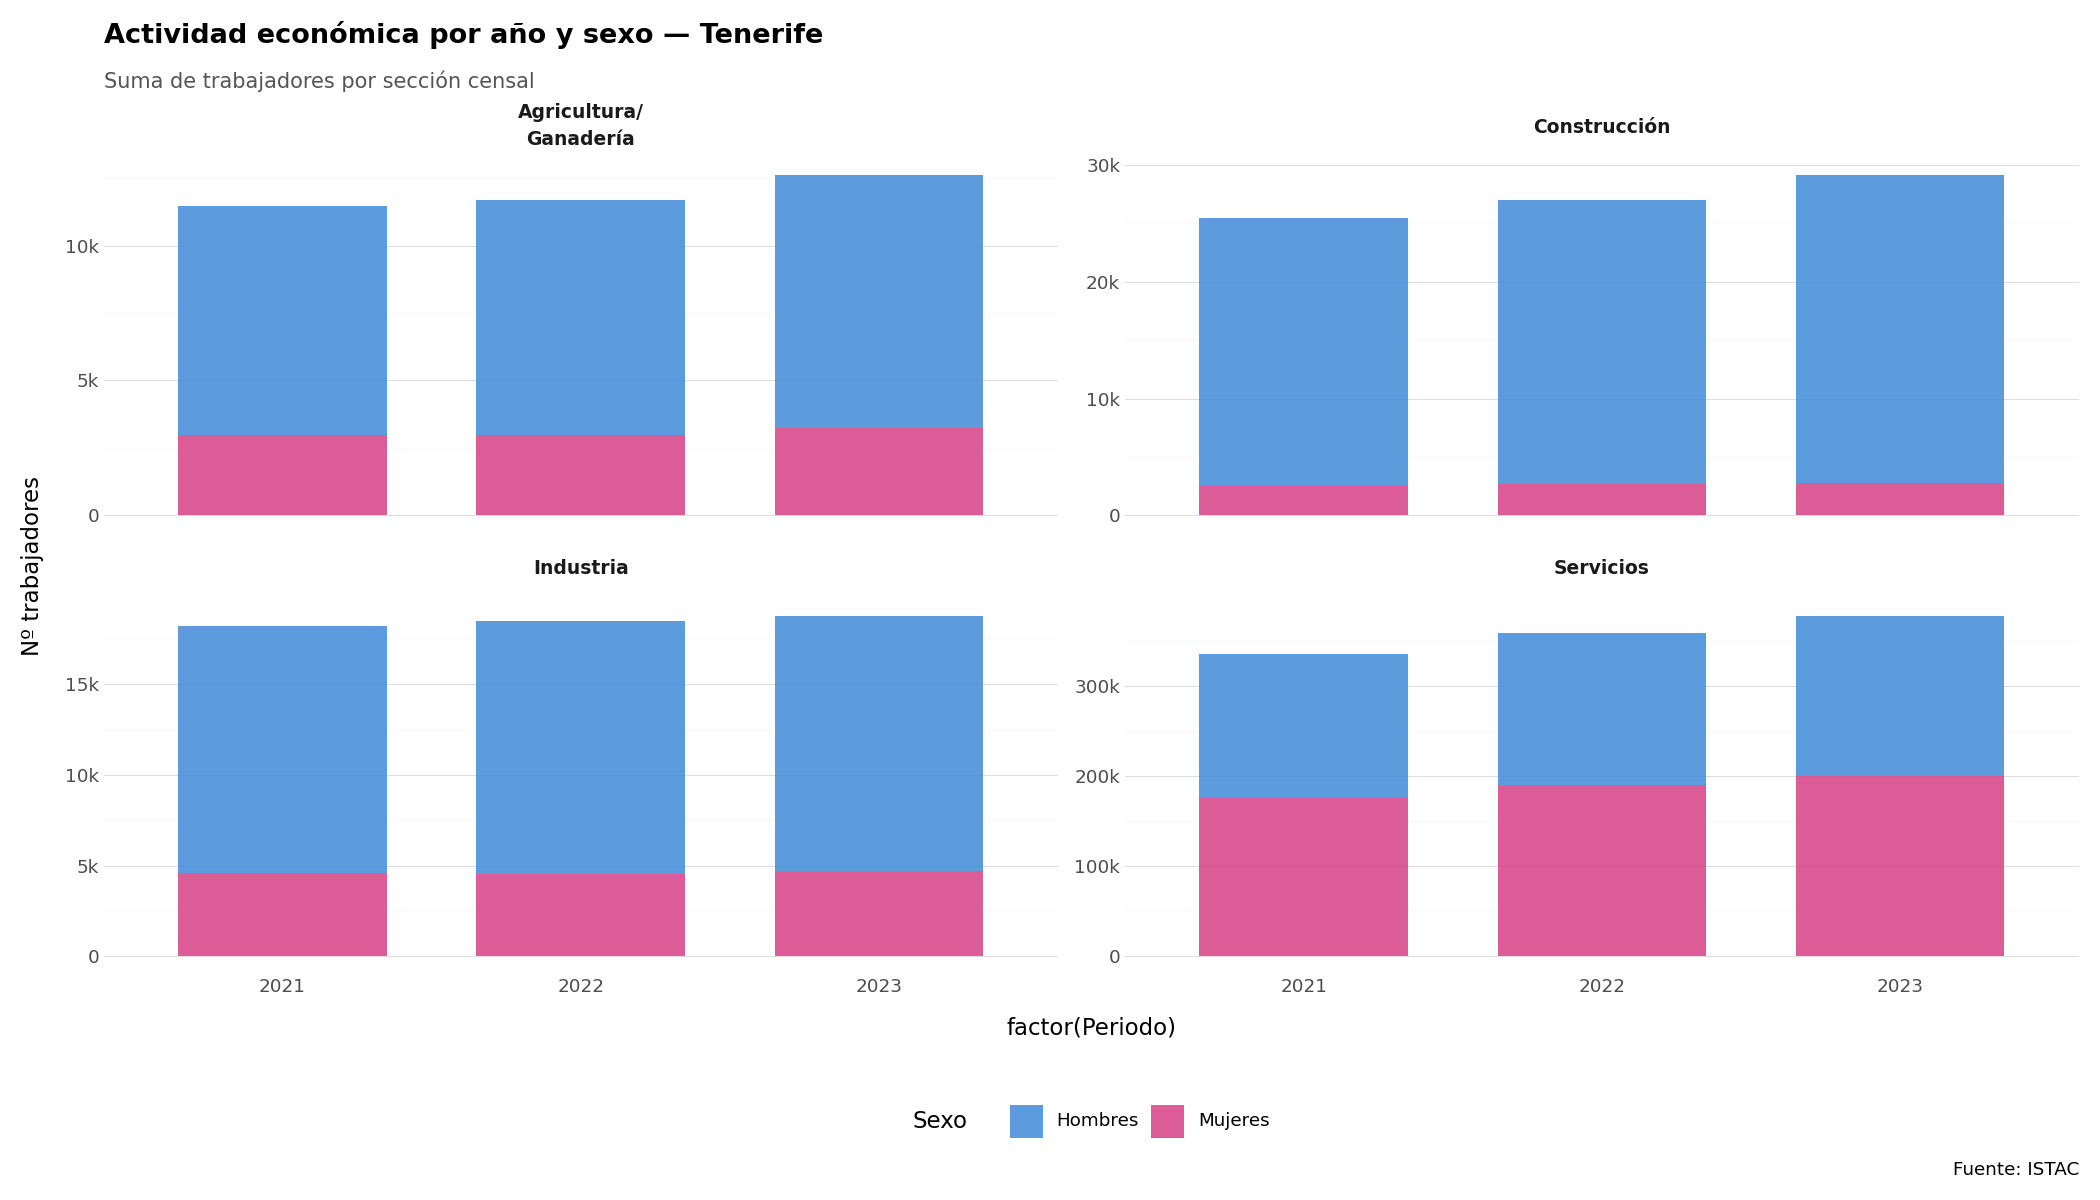
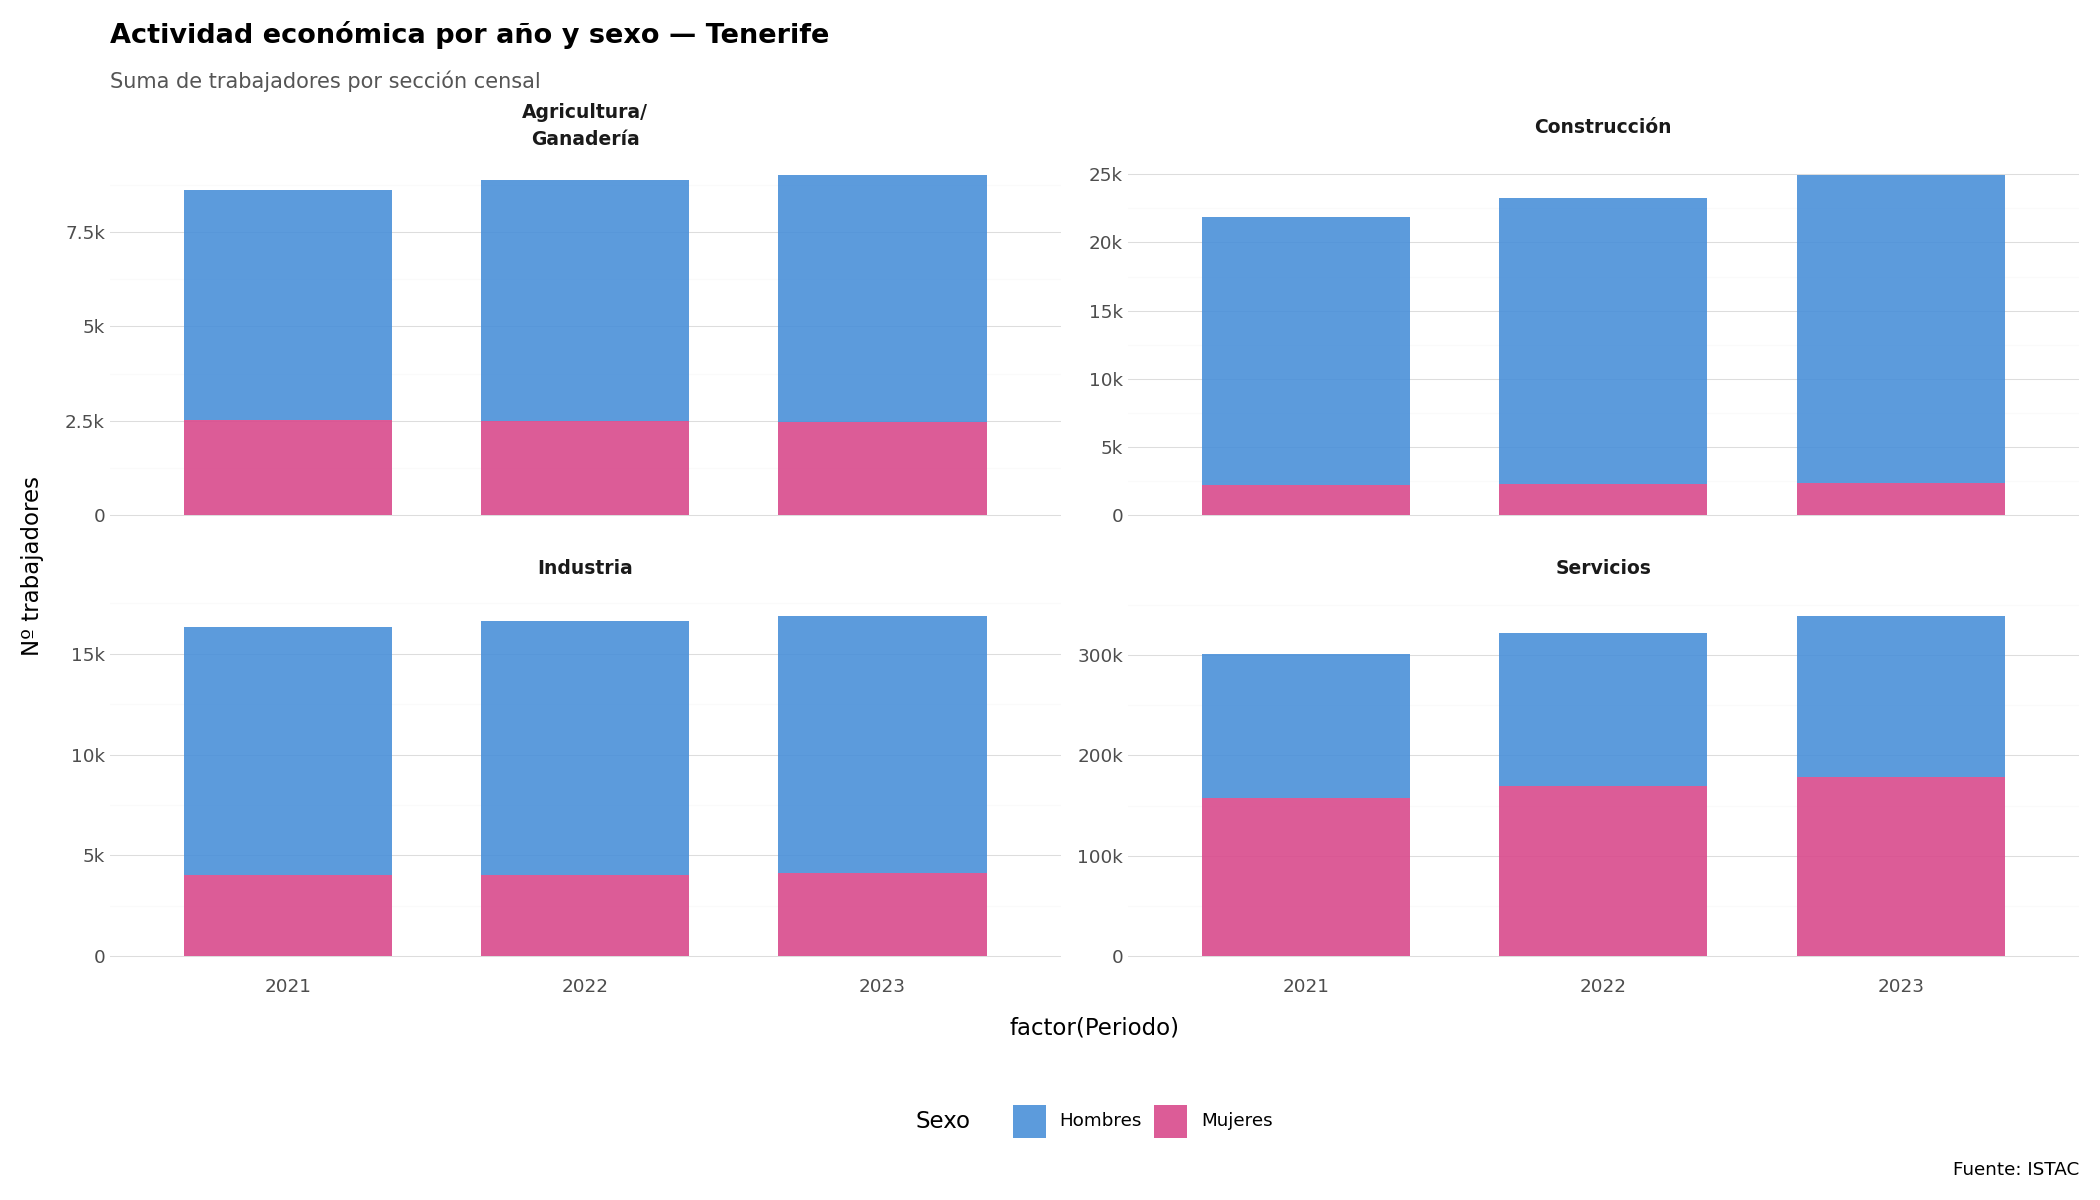
mejoras plots

diff --git a/assets_proyecto5/plots_assets.py b/assets_proyecto5/plots_assets.py
@@ -159,9 +159,16 @@ def plot_distribucion_lineas(context: AssetExecutionContext) -> None:
 
 @asset(deps=[preprocesar_datos_p5], group_name="visualizaciones")
 def plot_actividad_barras(context: AssetExecutionContext) -> None:
+    from checks_p5 import inferir_isla
     cfg = get_plot_config()["actividad_barras"]
+    ISLA = cfg.get("isla", "Todas")
+    
     df = pd.read_csv(get_processed_path(cfg["dataset"])).dropna(subset=["num_casos"])
     df = df[df["Sexo"].isin(["Hombres", "Mujeres"]) & (df["Actividad económica"] != "No consta")]
+    
+    if ISLA != "Todas":
+        df["isla"] = df["municipio"].apply(inferir_isla)
+        df = df[df["isla"] == ISLA]
 
     df["actividad"] = df["Actividad económica"].replace(
         {"Agricultura, ganadería y pesca": "Agricultura/\nGanadería"}
@@ -176,7 +183,7 @@ def plot_actividad_barras(context: AssetExecutionContext) -> None:
         + scale_fill_manual(values={"Hombres": "#4A90D9", "Mujeres": "#D94A8C"})
         + scale_y_continuous(labels=fmt_k)
         + labs(
-            title="Actividad económica por año y sexo — Tenerife",
+            title=f"Actividad económica por año y sexo — {ISLA if ISLA != 'Todas' else 'Toda la provincia'}",
             subtitle="Suma de trabajadores por sección censal",
             x=None, y="Nº trabajadores", fill="Sexo",
             caption="Fuente: ISTAC",
@@ -944,6 +951,12 @@ def plot_brecha_temporal_edad(context: AssetExecutionContext) -> None:
     for col in df.select_dtypes(include="object").columns:
         df[col] = df[col].str.strip()
     df = df[df["sexo"].isin(["Hombres", "Mujeres"])]
+    
+    cfg = get_plot_config().get("brecha_temporal_edad", {})
+    ISLA = cfg.get("isla", "Todas")
+    
+    if ISLA != "Todas":
+        df = df[df["isla"].str.upper() == ISLA.upper()]
 
     TC_MAP = {
         "Indefinido":               "Indefinido",
@@ -995,8 +1008,9 @@ def plot_brecha_temporal_edad(context: AssetExecutionContext) -> None:
         if ax == axes[0]:
             ax.set_ylabel("% sobre contratos del grupo edad-sexo", fontsize=10)
 
+    titulo_loc = "Canarias" if ISLA == "Todas" else ISLA
     fig.suptitle(
-        "Distribución del tipo de contrato por edad y género — Canarias, Marzo 2026",
+        f"Distribución del tipo de contrato por edad y género — {titulo_loc}, Marzo 2026",
         fontsize=13, fontweight="bold",
     )
     # Leyenda integrada dentro del área del figura
